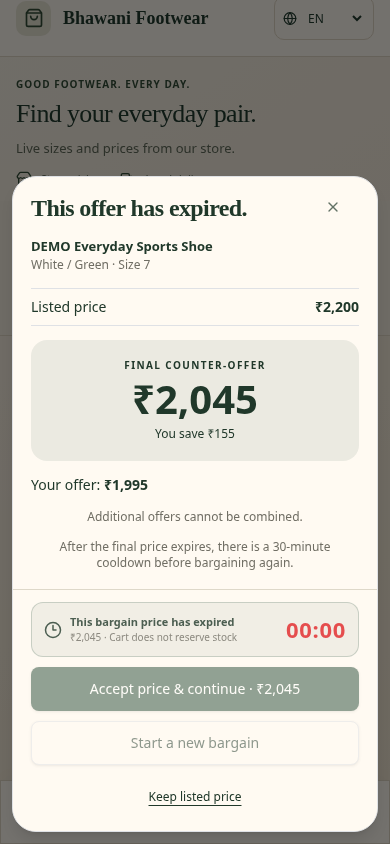
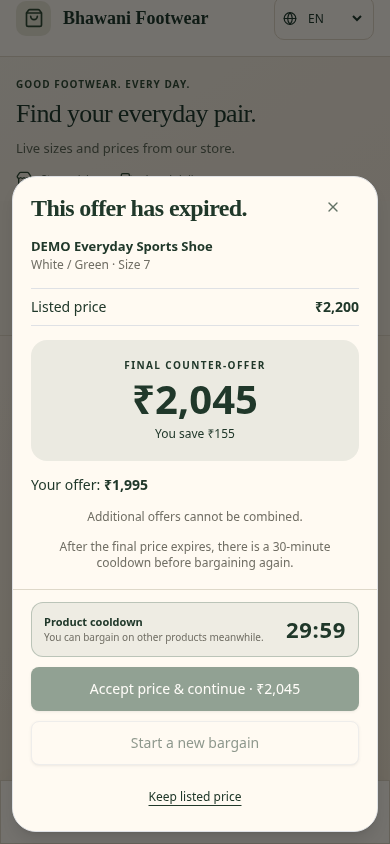
Show product-specific cooldown remaining only inside bargaining sheet

Changed region(s): [[0.0923, 0.7085, 0.6769, 0.7701], [0.7385, 0.7393, 0.8923, 0.7701]]

diff --git a/src/components/catalog-commerce/BargainSheet.tsx b/src/components/catalog-commerce/BargainSheet.tsx
@@ -251,7 +251,21 @@ export function BargainSheet({
         </div>
         {deal && (
           <footer className={styles["footer"]}>
-            <DealTimer deal={deal} />
+            {(!deal.retry_at || seconds > 0 || deal.order_placed) && <DealTimer deal={deal} />}
+            {!!deal.retry_at && seconds === 0 && retrySeconds > 0 && !deal.order_placed && (
+              <div className={styles["timer"]} data-bargain-cooldown>
+                <div>
+                  <strong>{t("Product cooldown")}</strong>
+                  <span>{t("You can bargain on other products meanwhile.")}</span>
+                </div>
+                <time aria-label={t("Cooldown remaining")} dateTime={`PT${retrySeconds}S`}>
+                  {Math.floor(retrySeconds / 60)
+                    .toString()
+                    .padStart(2, "0")}
+                  :{(retrySeconds % 60).toString().padStart(2, "0")}
+                </time>
+              </div>
+            )}
             <Button
               className="h-12"
               disabled={

diff --git a/src/lib/i18n-commerce.ts b/src/lib/i18n-commerce.ts
@@ -518,3 +518,12 @@ Object.assign(COMMERCE, {
       "Offer accept ho chuki hai. Current price par continue karein ya next round ka wait karein.",
   },
 });
+
+Object.assign(COMMERCE, {
+  "Product cooldown": { hindi: "इस उत्पाद का कूलडाउन", hinglish: "Is product ka cooldown" },
+  "You can bargain on other products meanwhile.": {
+    hindi: "इस दौरान दूसरे उत्पादों पर मोलभाव कर सकते हैं।",
+    hinglish: "Is beech doosre products par bargain kar sakte hain.",
+  },
+  "Cooldown remaining": { hindi: "कूलडाउन का बचा समय", hinglish: "Cooldown ka baaki time" },
+});

diff --git a/tests/catalog-bargain-db-audit.py b/tests/catalog-bargain-db-audit.py
@@ -94,6 +94,14 @@ try:
   age_expiry(1)
   assert rejects_bid(1920,True)
   after=state30();assert 28*60<(datetime.fromisoformat(after['retry_at'])-datetime.fromisoformat(after['server_now'])).total_seconds()<30*60
+  # Same client can immediately bargain on a different product during this product's cooldown.
+  otherp='10000000-0000-4000-8000-000000000099';otherv='20000000-0000-4000-8000-000000000099'
+  sql(f"INSERT INTO products(id,article,selling_price,catalog_visible)VALUES('{otherp}','Other demo pair',2200,true);INSERT INTO product_variants(id,product_id,size,stock)VALUES('{otherv}','{otherp}','7',2);")
+  call('save_catalog_bargain_policy',{'product_id':otherp,'policy':policy,'expected_revision':None},owner)
+  before_other=state30()
+  other=fresh_bid(1850,variant=otherv);assert other['attempts']==1 and other['product_id']==otherp
+  assert state30()['id']==before_other['id']and state30()['retry_at']==before_other['retry_at']
+  sql(f"DELETE FROM catalog_bargain_sessions WHERE product_id='{otherp}';DELETE FROM catalog_bargain_policies WHERE product_id='{otherp}';DELETE FROM product_variants WHERE id='{otherv}';DELETE FROM products WHERE id='{otherp}';")
   age_expiry(31)
   expired=state30();same=fresh_bid(1990);assert same['duplicate']and same['id']==expired['id']
   assert state30()['id']==expired['id']
@@ -125,7 +133,7 @@ try:
   age_expiry(31,accepted_client)
   assert fresh_bid(1850,True,who=accepted_client)['attempts']==1
   assert as_role('anon','',"SELECT * FROM catalog_bargain_sessions;",False).returncode
-  print(json.dumps({'cooldown':'pass','checks':['all original RPC definitions byte-unchanged','old session budget retained','unused second bid survives first quote expiry','30 minutes after final quote expiry','size switch and read cannot restart','concurrent explicit restart idempotency','more than three rounds allowed: no daily cap','old quote rejected and saved order retry unchanged','linked order cannot restart','accepted-first quote cooldown','no new tables or columns; guarded attempts limit widened to four']}))
+  print(json.dumps({'cooldown':'pass','checks':['all original RPC definitions byte-unchanged','old session budget retained','unused second bid survives first quote expiry','30 minutes after final quote expiry','same product size switch/read cannot restart; other product can bargain immediately','concurrent explicit restart idempotency','more than three rounds allowed: no daily cap','old quote rejected and saved order retry unchanged','linked order cannot restart','accepted-first quote cooldown','no new tables or columns; guarded attempts limit widened to four']}))
  assert call('catalog_bargain_enabled',{})==[p]
  assert fail('save_catalog_bargain_policy',{'product_id':p,'policy':policy,'expected_revision':saved['revision']},staff)
  assert as_role('anon','',"SELECT * FROM catalog_bargain_sessions;",False).returncode

diff --git a/AGENTS.md b/AGENTS.md
@@ -81,4 +81,4 @@
 
 - Combined cart checkout review source is `docs/catalog-cart-checkout.md` and `docs/sql/catalog-cart`; no live application is authorized by local QA. Bottom navigation is Shop/Orders/Cart/Help/About, including desktop. Select pairs and use one Order action, fulfilment/contact form, combined delivery fee and UPI total; a new atomic function stores existing one-pair booking rows under a CT reference. Never loop separate browser order requests. Coupon version2 applies once to the combined normal-price eligible subtotal; bargains and delivery are excluded. Keep per-pair original struck-through and allocated net prices, exact-cent sums, one CT usage and exact pending-request routing (top-level coupon present=v2, absent=v1). SQL review update Parts3/4 changes only coupon_usage_count and the guarded expired-coupon clause in confirm_catalog_booking, plus new scoped functions/version2. Existing billing/refund functions, tables and reset manifest stay unchanged. Late expired coupon carts must revalidate the shared basket/capacity without self-conflicting or repricing saved orders. Existing saved single requests retain their original RPC route; new single requests use cart grouping only when cart_ready. Uncertain combined requests persist exact UUID/payload locally across browser restart, block new orders and recover before current expiry/price checks. Pending contact data clears after confirmed resolution. Only successful ordered variant IDs leave the cart. Owner/staff group receipt confirmation verifies the full amount and invokes unchanged per-pair receipt logic atomically; manual bank verification and per-pair fulfilment/invoices/refunds remain. Never describe this as one consolidated invoice or automated bank confirmation.
 
-- Approved offer placement/retry update is `docs/catalog-bargain-cooldown.md`: Make an offer beside the selling price, no duplicate link below policy. Four distinct bids per negotiation, fourth counter final unless accepted earlier; unused bids survive an earlier quote expiry. Final/accepted price keeps180sec, then30min cooldown before explicit new negotiation; no daily cap. Show only the static cooldown note, never a30min countdown; keep the180sec price timer. New server functions serialize restarts and replace only an expired unplaced quote; linked orders remain blocked and exact order-request recovery stays unchanged. Manual SQL review widens only the known attempts CHECK to4 and adds scoped functions, no tables/columns/financial RPC edits. User reported earlier coupon verification true; cooldown SQL remains pending and must not be assumed applied. Legacy2-bid fallback is only for known missing-function errors.
+- Approved offer placement/retry update is `docs/catalog-bargain-cooldown.md`: Make an offer beside the selling price, no duplicate link below policy. Four distinct bids per negotiation, fourth counter final unless accepted earlier; unused bids survive an earlier quote expiry. Final/accepted price keeps180sec, then30min cooldown before explicit new negotiation; no daily cap. Outside the offer sheet show only the static note/no30min timer. Reopening Make an offer on the same product shows actual remaining cooldown inside that sheet, replacing the expired price timer. Keep the180sec price timer while valid; other products remain immediately eligible with the same device identity. New server functions serialize restarts and replace only an expired unplaced quote; linked orders remain blocked and exact order-request recovery stays unchanged. Manual SQL review widens only the known attempts CHECK to4 and adds scoped functions, no tables/columns/financial RPC edits. User reported earlier coupon verification true; cooldown SQL remains pending and must not be assumed applied. Legacy2-bid fallback is only for known missing-function errors.

diff --git a/docs/catalog-bargain-cooldown.md b/docs/catalog-bargain-cooldown.md
@@ -4,7 +4,7 @@ Current approved flow: the Make an offer pill is beside the selling price (Optio
 
 Every issued price keeps its original three-minute server deadline. After the fourth/final or already-accepted price expires, there is a 30-minute cooldown before the customer may explicitly start a new negotiation with four fresh bids. Example: final price12:00 → expires12:03 → new negotiation available12:33. There is **no daily round cap**. Idle record cleanup remains the existing24-hour resource cleanup, not a24-hour bargaining lock.
 
-Only a small static explanatory note is visible. Never show a30-minute countdown, ticking retry clock or another fixed FOMO timer. The original three-minute price timer stays. Start a new bargain is disabled during cooldown and enables when the shared internal clock reaches the server deadline. Reopening, refresh or closing the browser cannot shorten cooldown. A new counter is not guaranteed to beat an old expired counter and always respects the owner's current private limits. Existing agreed orders are never repriced; a quote already linked to an order cannot start another negotiation.
+The product view/catalog/cart show no30-minute countdown. The offer screen keeps the static explanatory note; when the same product is reopened during cooldown, show its actual remaining cooldown timer inside that sheet only. It replaces the expired price timer, rather than adding a second ticking timer. The original three-minute price timer stays while its price is valid. A different product can be bargained on immediately, even by the same device capability. Start a new bargain is disabled during cooldown and enables when the shared internal clock reaches the server deadline. Reopening, refresh or closing the browser cannot shorten cooldown. A new counter is not guaranteed to beat an old expired counter and always respects the owner's current private limits. Existing agreed orders are never repriced; a quote already linked to an order cannot start another negotiation.
 
 ## Source and activation
 
@@ -22,7 +22,7 @@ A restart is explicit and serialized on the existing device capability lock. It 
 
 - `python3 tests/catalog-bargain-db-audit.py --cooldown --short-parts --cloud-reset-format`: disposable network-disabled PostgreSQL17, new SQL applied twice; original function definitions compared byte-for-byte, fourth bid final budget, unused bids after first-price expiry, expiry+30-minute restart, early restart blocked, size/GET/duplicate behavior, concurrent restart, repeated negotiations with no daily cap, obsolete quote rejection and committed-order retry, original backup/reset/restore flow.
 - `python3 tests/catalog-cart-order-db-audit.py --whole-coupon --cooldown --short-parts --split-sql`: combined cart/coupon/payment/refund regression with new quote metadata.
-- `tests/catalog-bargain-cooldown-browser-audit.mjs`: real components with synthetic blocked-network services; price-side action at320/390/768/1440, size prompt, fourth counter final, static note only, expired quote/cooldown gating, reopen persistence and a new four-bid negotiation.
+- `tests/catalog-bargain-cooldown-browser-audit.mjs`: real components with synthetic blocked-network services; price-side action at320/390/768/1440, size prompt, fourth counter final, product-specific cooldown timer only inside the reopened offer sheet, expired quote/cooldown gating, reopen persistence and a new four-bid negotiation.
 - Existing commerce browser regression, unit suite, TypeScript, scoped ESLint and production build accompany the change. Local tests do not establish live installation or real customer transactions.
 
 ## Revert
